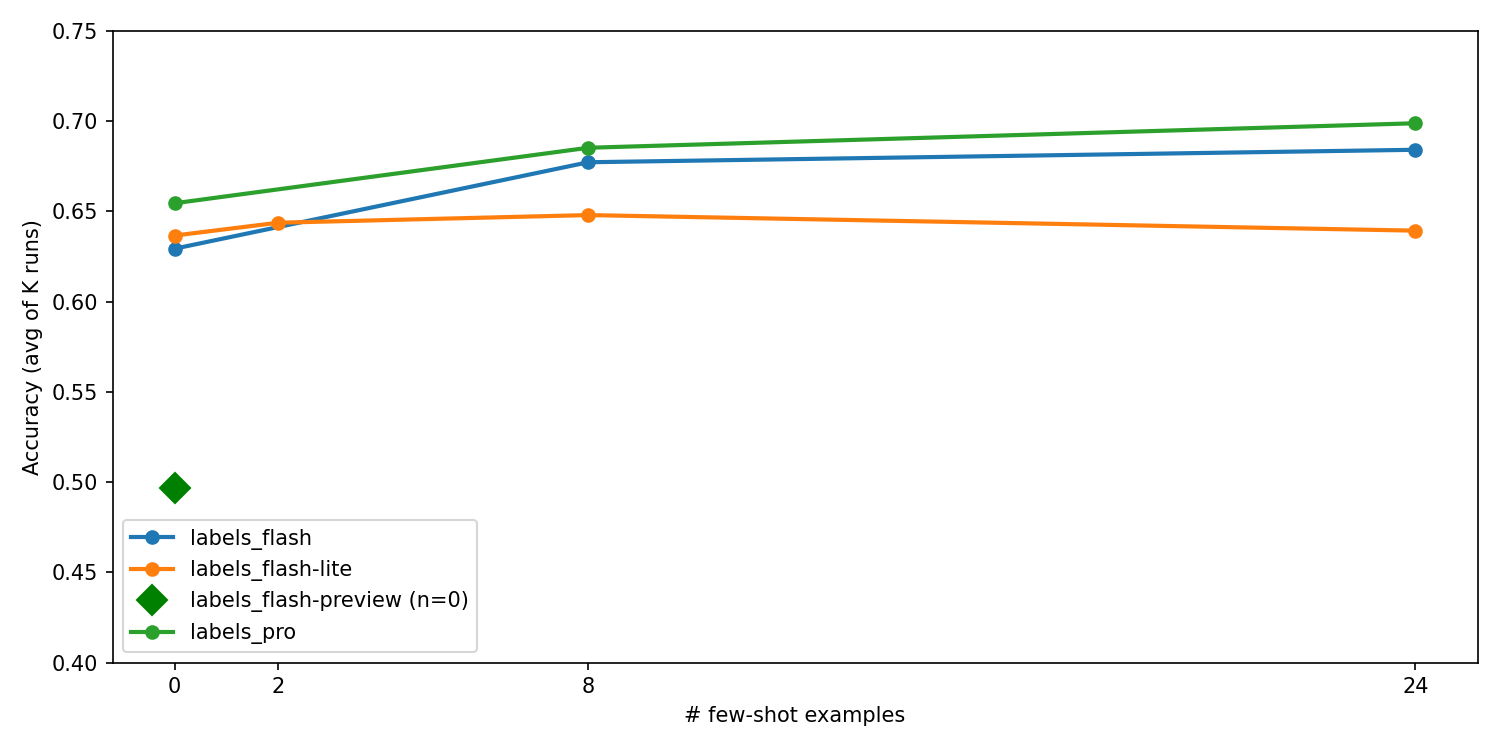
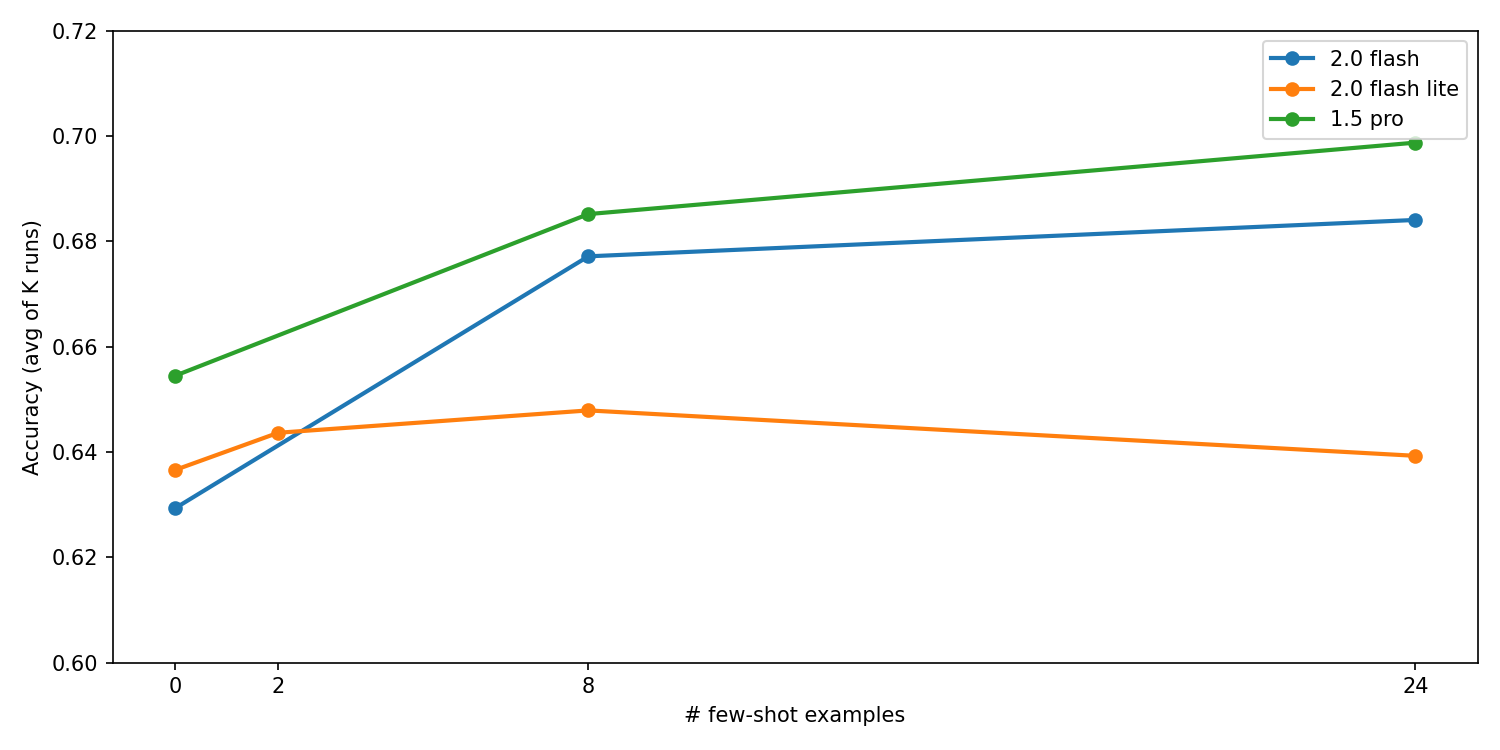
changed aggregate runs and fewshot grid to exclude flash 2.5 (keep hitting usage limits)

diff --git a/src/aggregate_runs.py b/src/aggregate_runs.py
@@ -49,6 +49,10 @@ def main():
     for model, files_list in model_files.items():
         print(f"  {model}: {len(files_list)} files")
     
+    # Filter out flash-preview files
+    files = [f for f in files if "flash-preview" not in f]
+    print(f"\nAnalyzing {len(files)} files (excluding flash-preview)")
+    
     df=pd.DataFrame([x for f in files for x in flatten(f)])
     
     # Count samples per model-n-run combination to filter out incomplete runs
@@ -136,6 +140,10 @@ def main():
     
     # Completely rewrite the plotting logic with explicit x and y values
     for model in sorted(avg.index):
+        # Skip flash-preview model
+        if "flash-preview" in model:
+            continue
+        
         # Get valid pairs of (n, accuracy) for this model
         x_values = []
         y_values = []
@@ -147,45 +155,32 @@ def main():
         # Print the data points for this model
         print(f"\nPlotting {model} points: x={x_values}, y={y_values}")
         
+        # Map the model names to more readable labels
+        model_label = model
+        if model == "labels_flash":
+            model_label = "2.0 flash"
+        elif model == "labels_flash-lite":
+            model_label = "2.0 flash lite"
+        elif model == "labels_pro":
+            model_label = "1.5 pro"
+        
         # Use different styles for different models
         if 'preview' in model:
             # For flash-preview, use green color with diamond markers
             if len(x_values) >= 2:
                 # With multiple points, connect them with lines
-                # Only plot the points we actually have - no extrapolation
-                for i, (x, y) in enumerate(zip(x_values, y_values)):
-                    if i == 0:  # First point gets the label
-                        plt.plot(x, y, 'D', color='green', markersize=10, label=model)
-                    else:
-                        plt.plot(x, y, 'D', color='green', markersize=10)
-                
-                # Explicitly check which points we have before drawing lines
-                available_xs = set(x_values)
-                if 0 in available_xs and 24 in available_xs:
-                    # Draw a direct line between 0 and 24 if those are the only points
-                    ind_0 = x_values.index(0)
-                    ind_24 = x_values.index(24)
-                    plt.plot([0, 24], [y_values[ind_0], y_values[ind_24]], '-', color='green', linewidth=2)
-                elif 0 in available_xs and 8 in available_xs:
-                    # Draw line between 0 and 8
-                    ind_0 = x_values.index(0)
-                    ind_8 = x_values.index(8)
-                    plt.plot([0, 8], [y_values[ind_0], y_values[ind_8]], '-', color='green', linewidth=2)
-                elif 8 in available_xs and 24 in available_xs:
-                    # Draw line between 8 and 24
-                    ind_8 = x_values.index(8)
-                    ind_24 = x_values.index(24)
-                    plt.plot([8, 24], [y_values[ind_8], y_values[ind_24]], '-', color='green', linewidth=2)
+                plt.plot(x_values, y_values, '-D', color='green', linewidth=2, 
+                         markersize=8, label=model)
             else:
                 # With single point, just show the marker
                 plt.plot(x_values, y_values, 'D', color='green', markersize=10,
                          label=f"{model} (n={x_values[0]})")
         else:
             # For other models, use default styling with circles
-            plt.plot(x_values, y_values, '-o', linewidth=2, label=model)
+            plt.plot(x_values, y_values, '-o', linewidth=2, label=model_label)
     
     # Set y-axis to reasonable range based on data
-    plt.ylim(0.4, 0.75)
+    plt.ylim(0.6, 0.72)  # Smaller range to highlight differences
     
     # Force x axis to use integer ticks at the actual n-values
     plt.xticks(sorted(all_n_values))

diff --git a/src/fewshot_grid.py b/src/fewshot_grid.py
@@ -184,6 +184,12 @@ if __name__ == "__main__":
     ap.add_argument("--test", action="store_true", help="Run a small test with 5 samples")
     args = ap.parse_args()
 
+    # Skip flash-preview as it's not working properly
+    if "flash-preview" in args.model:
+        print("ERROR: flash-preview model is disabled due to ResourceExhausted issues.")
+        print("Please use a different model like 'pro' or 'flash' instead.")
+        exit(1)
+        
     Ns   = [args.single_n] if args.single_n is not None else N_VALUES
     runs = 1 if args.model.endswith("preview") else K_RUNS
 
